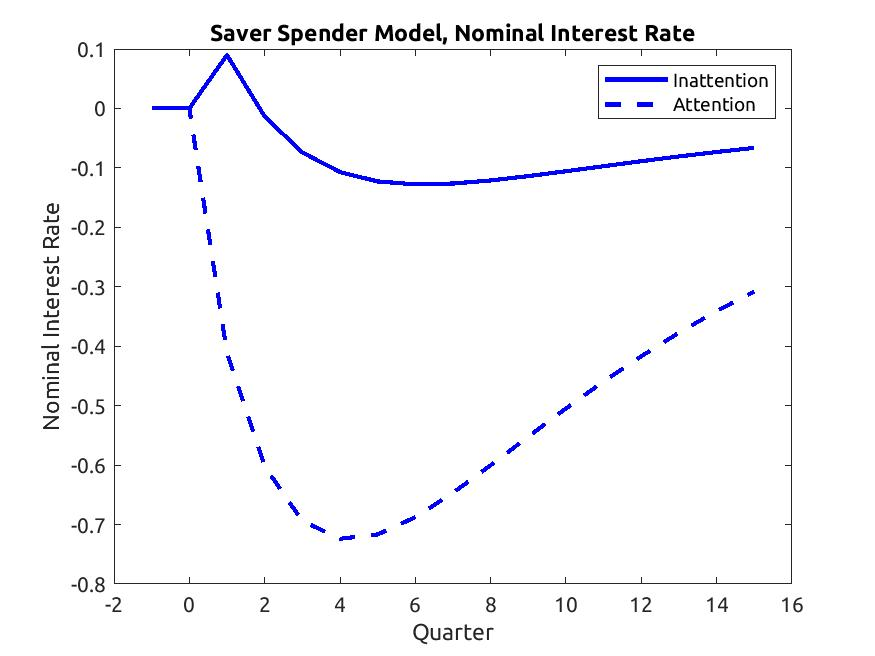
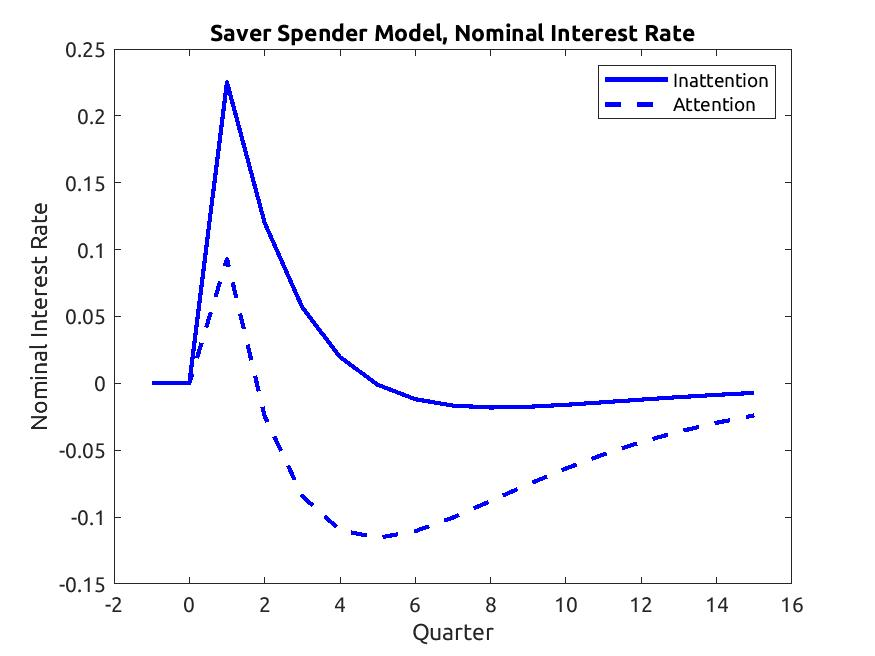
Change parameters for long term debt

diff --git a/Code/Dynare/IntertemporalMPCBased/RunIMPC.m b/Code/Dynare/IntertemporalMPCBased/RunIMPC.m
@@ -20,7 +20,7 @@ dynare LTDebtModel.mod noclearall nograph;
 LT_debt_IRFs = oo_.irfs;
 
 max_T = 15;
-Model = "LT_debt";
+Model = "SS";
 if Model=="SS"
     IRFs = SS_IRFs;
     Model_Name = "Saver Spender";
